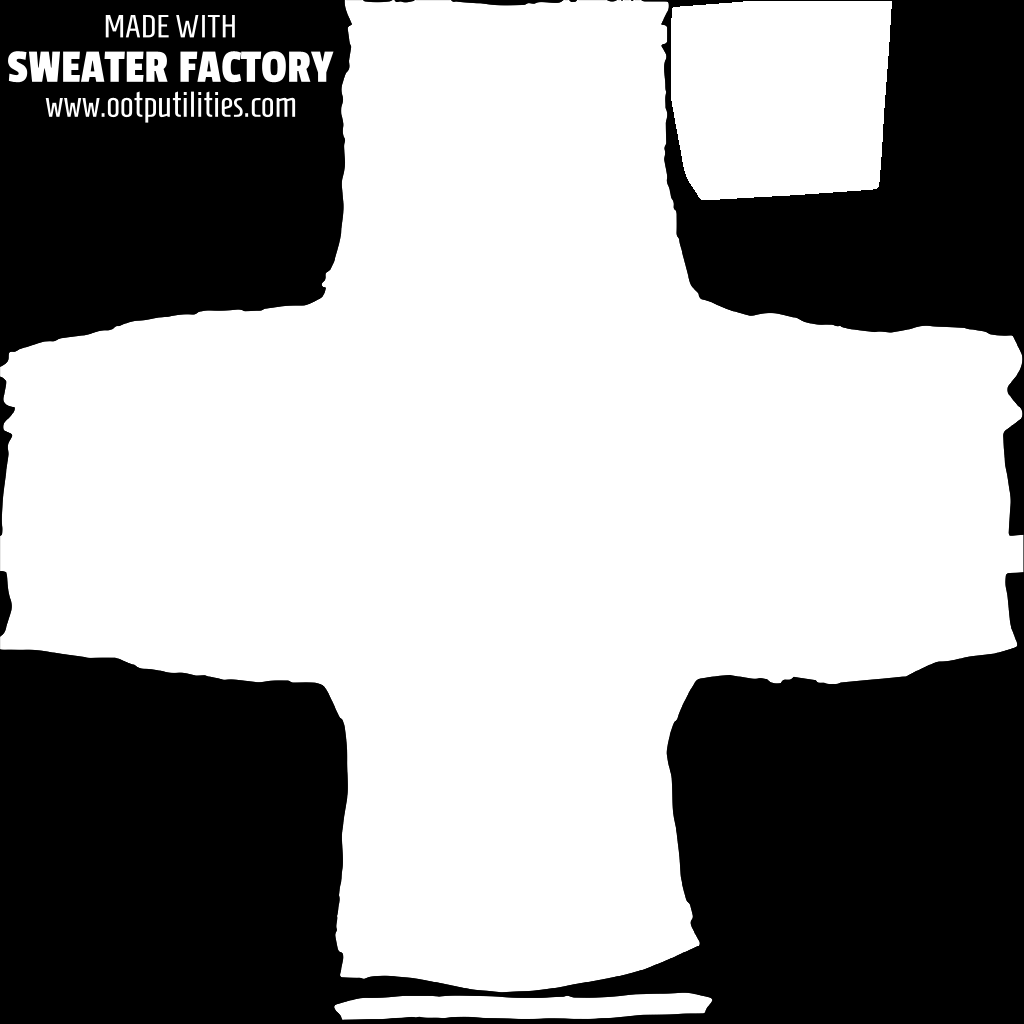
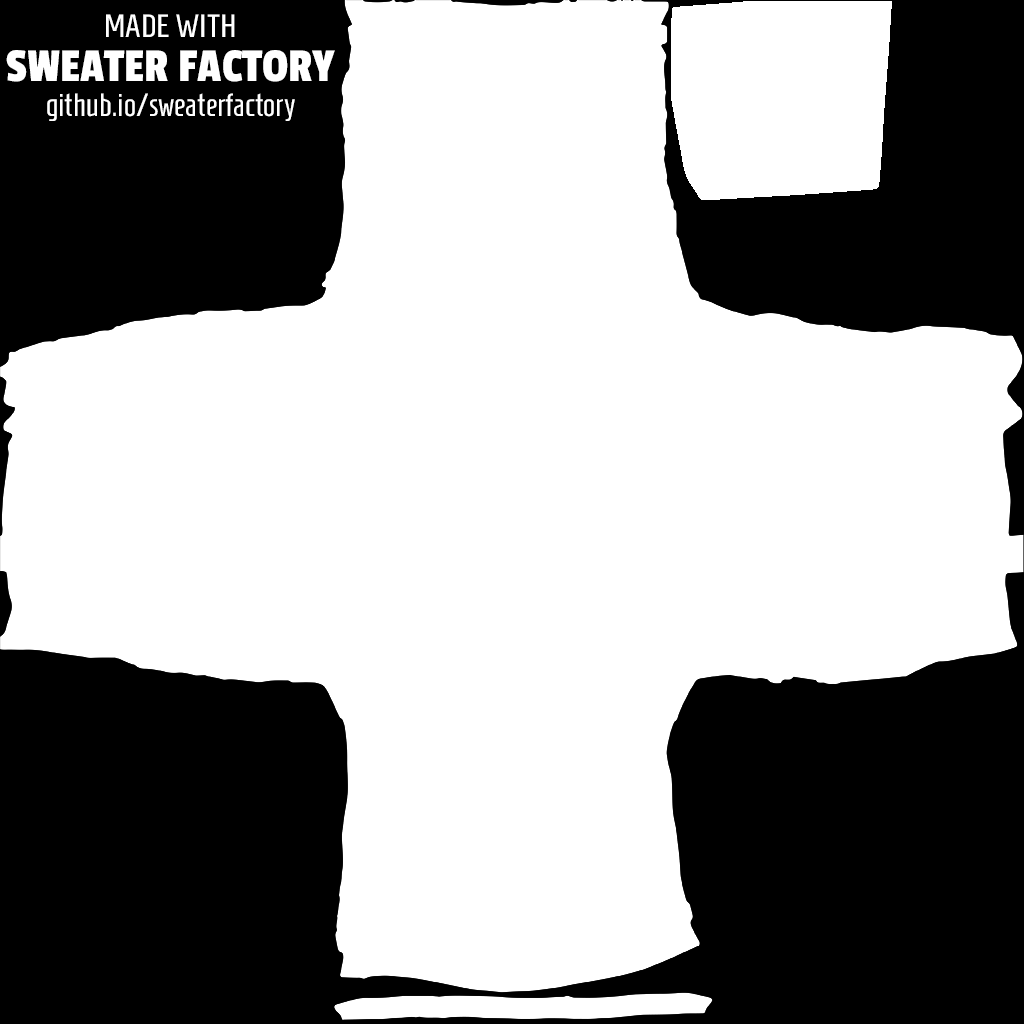
new watermark & remove base64 string

Changed region(s): [[0.0, 0.0, 0.3125, 0.125]]

diff --git a/main.js b/main.js
@@ -17,7 +17,6 @@ const url = require('url');
 
 const app2 = express()
 const port = 8080;
[1 lines of base64/hex data omitted]
 
 const fontArray = {
 	"Acme": "Acme-Regular.ttf",
@@ -204,6 +203,7 @@ app2.post('/saveJersey', (req, res) => {
 			if(err) {
 				console.log(err);
 			} else {
+				var watermark = fs.readFileSync(__dirname + "\\images\\fhm_watermark.png", {encoding: 'base64'});
 				var buffer = Buffer.from(watermark, 'base64');
 					Jimp.read(buffer, (err, sec_img) => {
 						if(err) {
